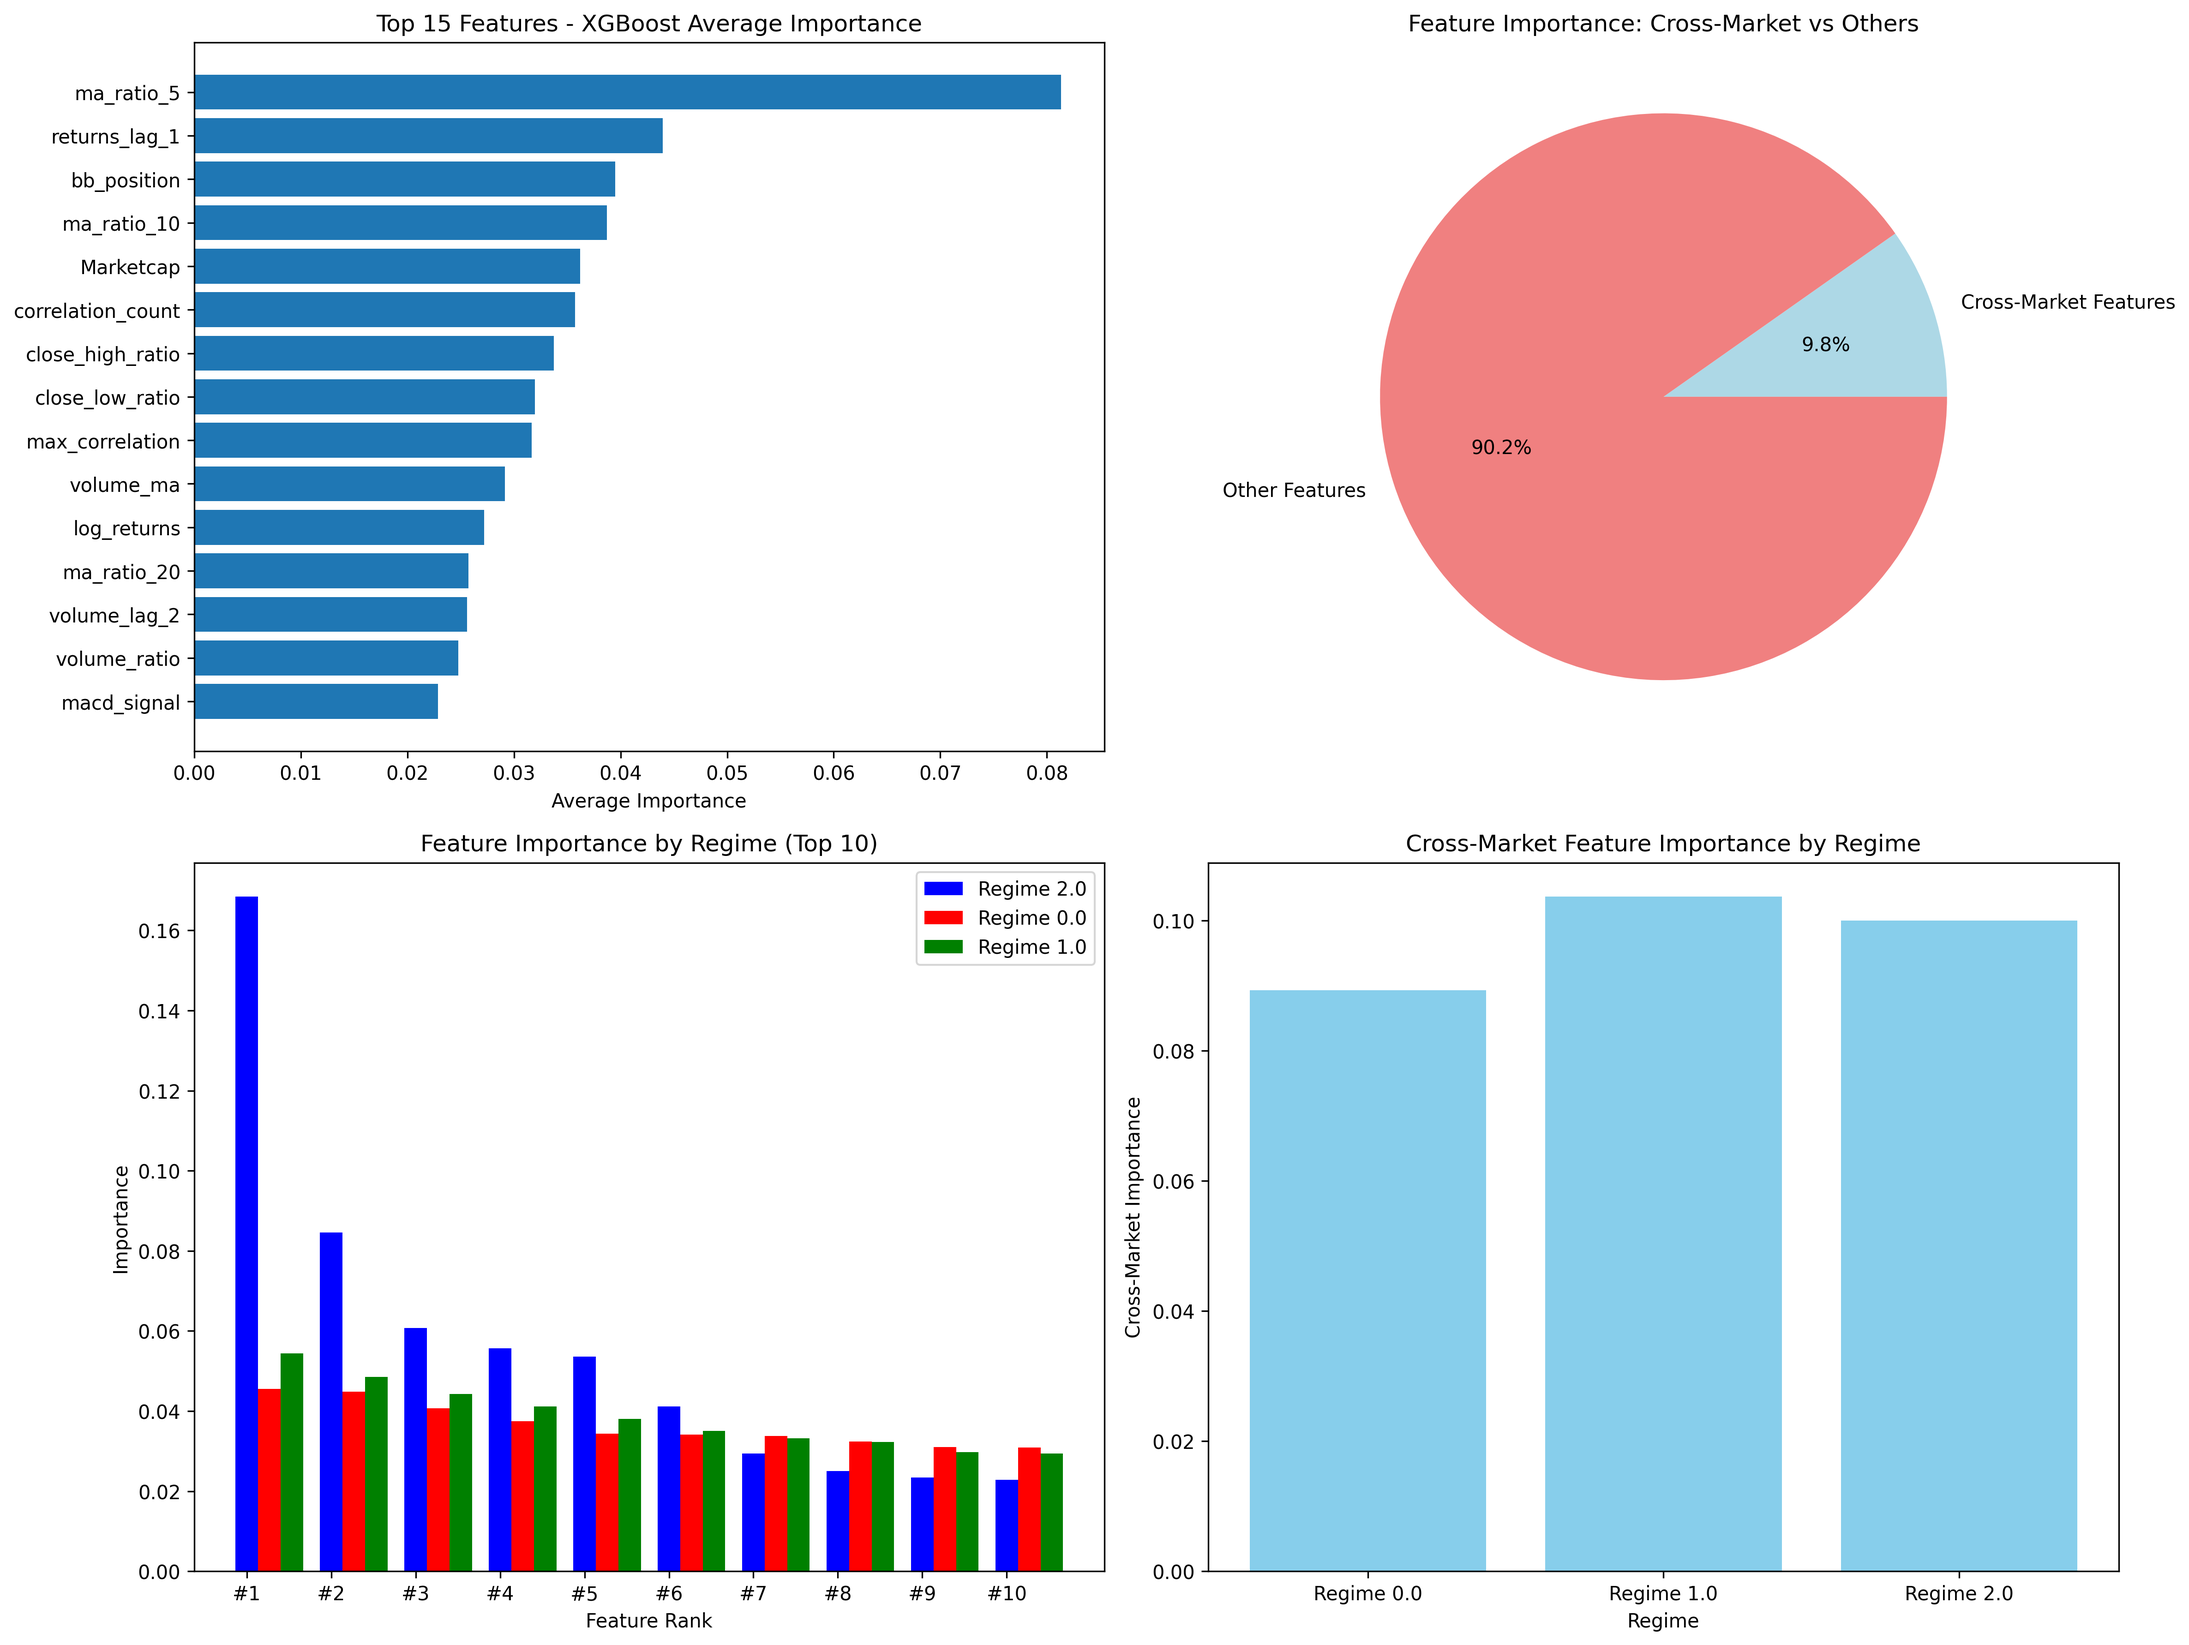
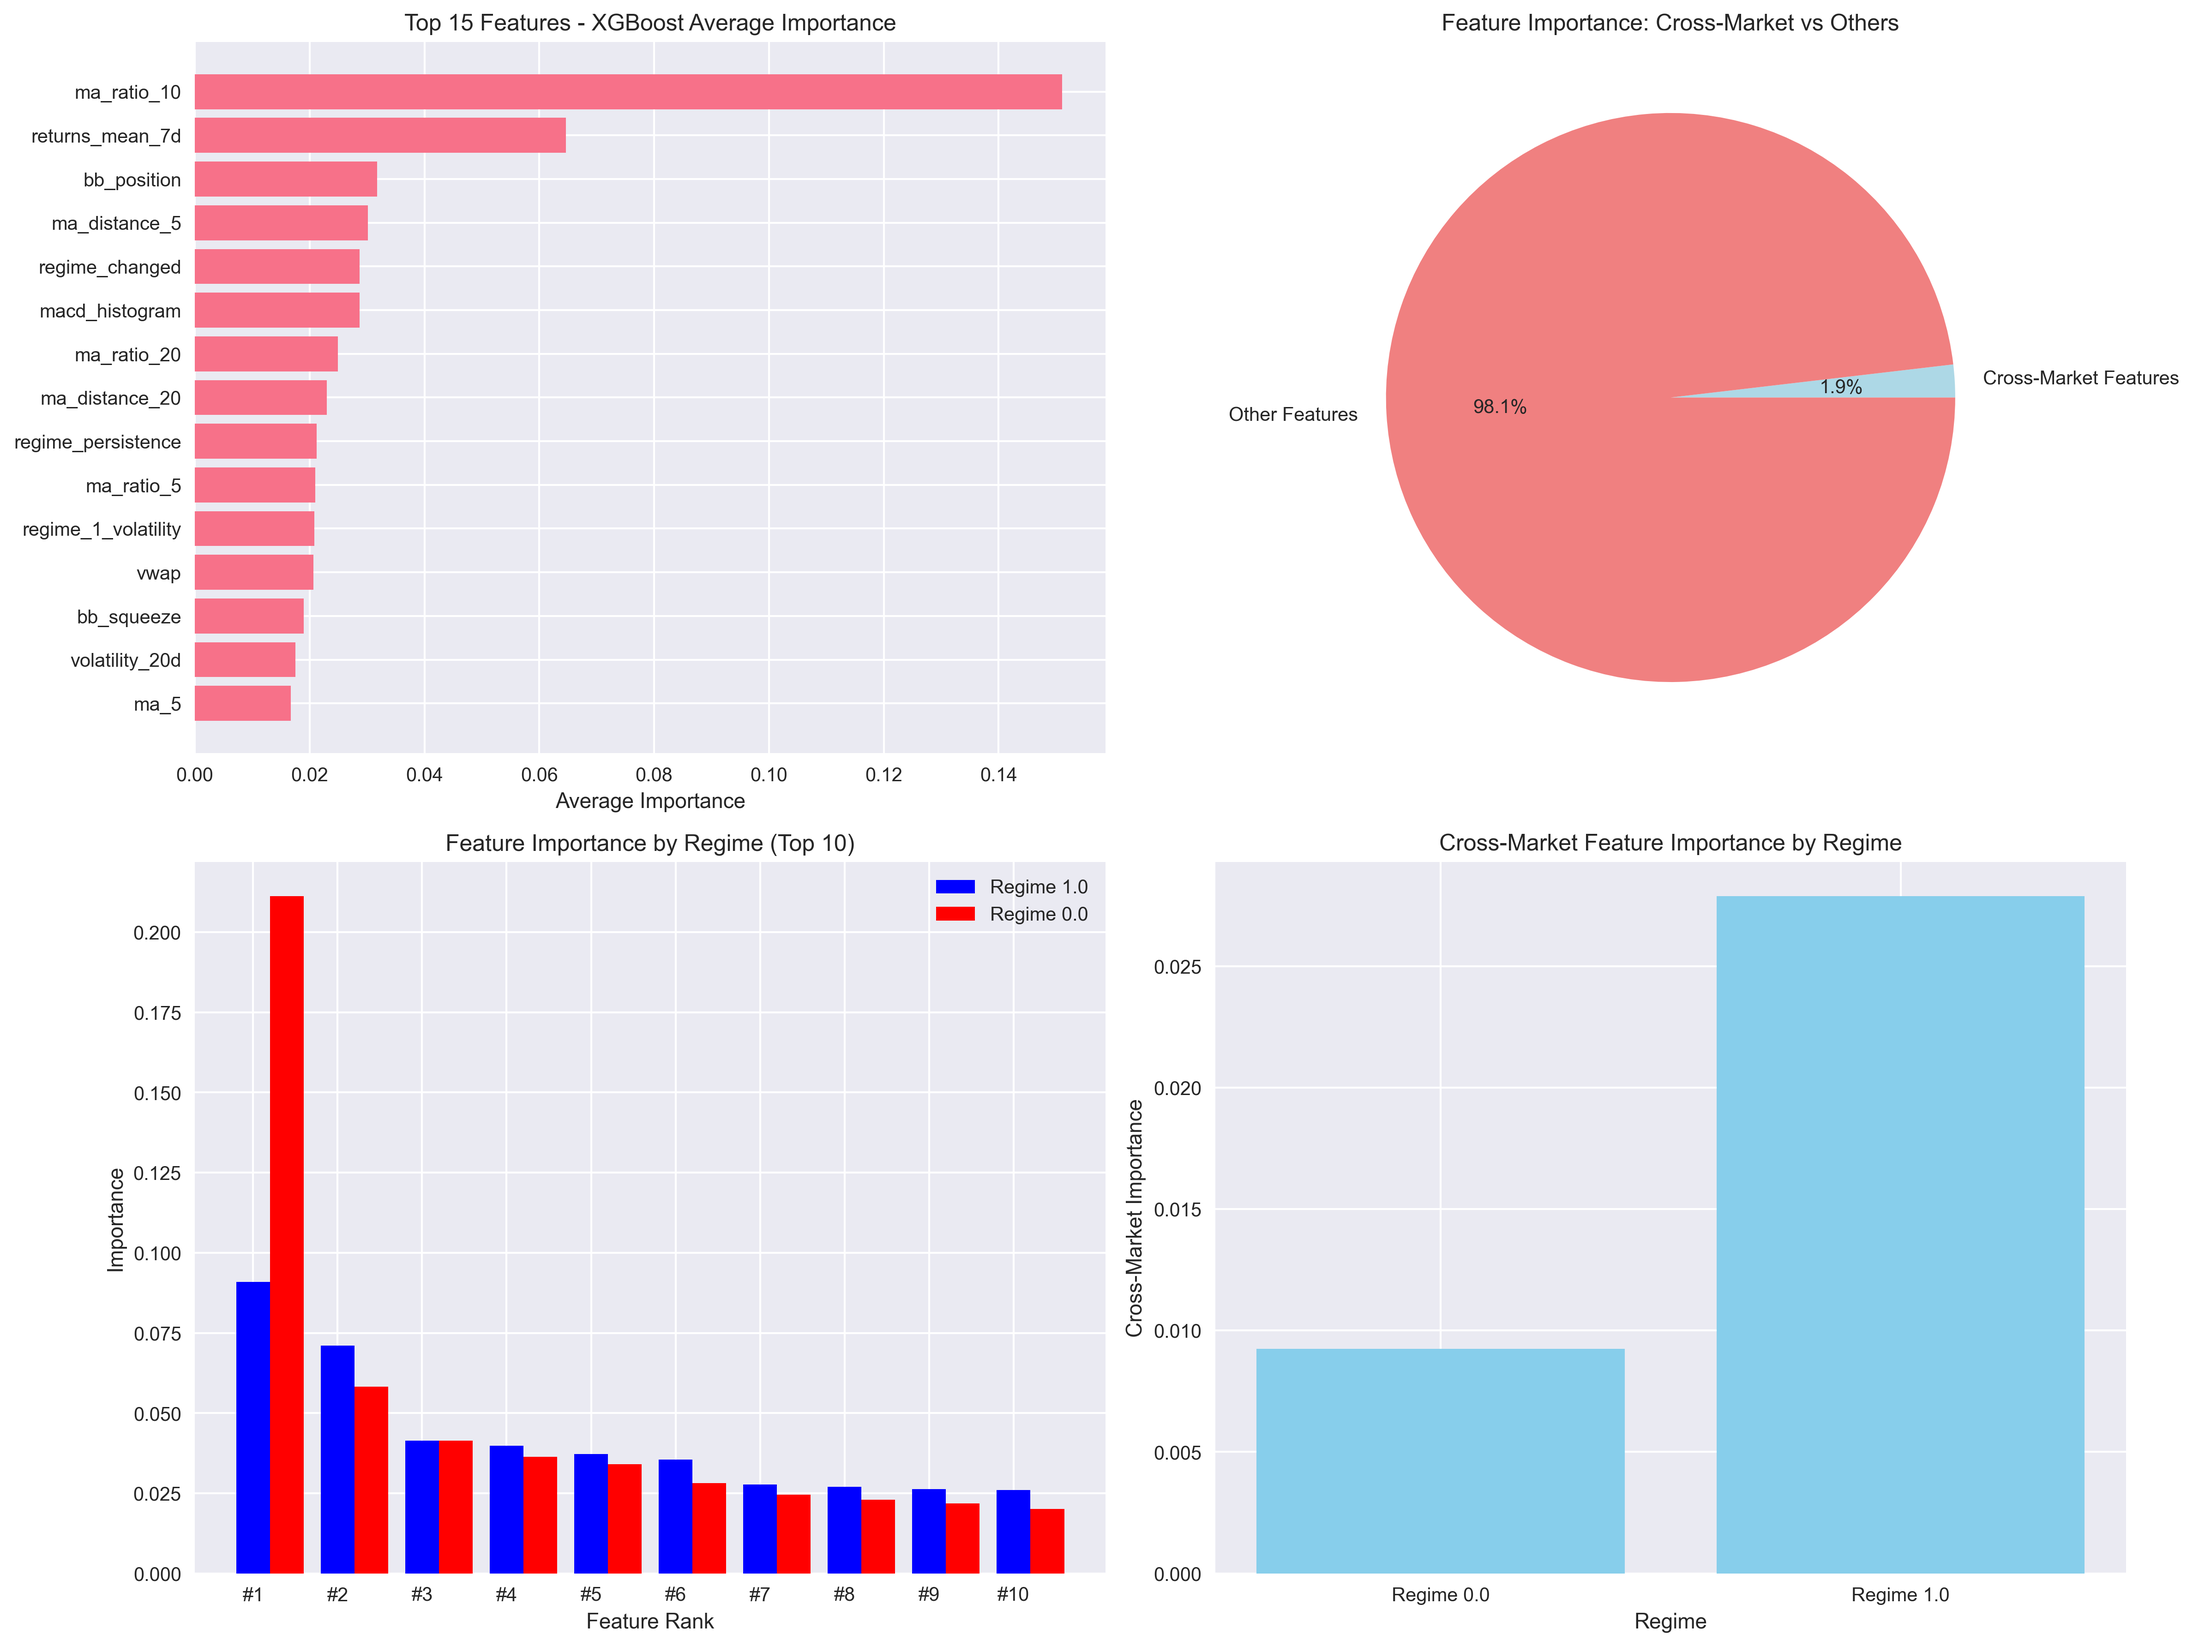
Refactor logging messages in data collection and feature engineering modules to improve clarity by removing checkmarks from log outputs. This change enhances the readability of log messages throughout the application.

diff --git a/feature_engineer.py b/feature_engineer.py
@@ -88,7 +88,7 @@ class FeatureEngineer:
         
         if technical_data:
             result_df = pd.concat(technical_data, ignore_index=True)
-            logger.info(f"✓ Technical indicators created for {len(result_df['Symbol'].unique())} symbols")
+            logger.info(f" Technical indicators created for {len(result_df['Symbol'].unique())} symbols")
             return result_df
         else:
             logger.error("No technical indicators created")
@@ -117,7 +117,7 @@ class FeatureEngineer:
         # Merge with original data
         df_with_cross = df.merge(market_pivot, on='date', how='left')
         
-        logger.info(f"✓ Cross-market features created. Shape: {df_with_cross.shape}")
+        logger.info(f" Cross-market features created. Shape: {df_with_cross.shape}")
         return df_with_cross
     
     def create_rolling_correlations(self, df, window=20):
@@ -155,7 +155,7 @@ class FeatureEngineer:
         if correlation_features:
             corr_df = pd.DataFrame(correlation_features)
             df_with_corr = df.merge(corr_df, on='date', how='left')
-            logger.info(f"✓ Rolling correlations created: {len(corr_df.columns)-1} features")
+            logger.info(f" Rolling correlations created: {len(corr_df.columns)-1} features")
             return df_with_corr
         else:
             logger.warning("No correlation features created")
@@ -194,7 +194,7 @@ class FeatureEngineer:
         
         if momentum_data:
             result_df = pd.concat(momentum_data, ignore_index=True)
-            logger.info(f"✓ Momentum features created")
+            logger.info(f" Momentum features created")
             return result_df
         else:
             return df
@@ -229,7 +229,7 @@ class FeatureEngineer:
         
         if microstructure_data:
             result_df = pd.concat(microstructure_data, ignore_index=True)
-            logger.info(f"✓ Market microstructure features created")
+            logger.info(f" Market microstructure features created")
             return result_df
         else:
             return df
@@ -263,7 +263,7 @@ class FeatureEngineer:
                 # Replace normalized data
                 df_normalized.loc[symbol_mask, feature_columns] = normalized_data
         
-        logger.info(f"✓ Normalized {len(feature_columns)} features")
+        logger.info(f" Normalized {len(feature_columns)} features")
         return df_normalized
     
     def create_target_variables(self, df, horizons=[1, 5, 10]):
@@ -291,7 +291,7 @@ class FeatureEngineer:
         
         if target_data:
             result_df = pd.concat(target_data, ignore_index=True)
-            logger.info(f"✓ Target variables created")
+            logger.info(f" Target variables created")
             return result_df
         else:
             return df
@@ -324,8 +324,8 @@ class FeatureEngineer:
         # Step 7: Clean final dataset
         final_df = df_with_targets.dropna(thresh=len(df_with_targets.columns) * 0.5)  # Remove rows with >50% missing values
         
-        logger.info(f"✓ Feature engineering complete. Final shape: {final_df.shape}")
-        logger.info(f"✓ Features created: {len(final_df.columns)} total columns")
+        logger.info(f" Feature engineering complete. Final shape: {final_df.shape}")
+        logger.info(f" Features created: {len(final_df.columns)} total columns")
         
         return final_df
 

diff --git a/data_collector.py b/data_collector.py
@@ -70,7 +70,7 @@ class FinancialDataCollector:
             columns_to_keep = ['date', 'open', 'high', 'low', 'close', 'volume', 'Symbol', 'Market_Type']
             data = data[columns_to_keep]
             
-            logger.info(f"✓ Downloaded {symbol}: {len(data)} records")
+            logger.info(f" Downloaded {symbol}: {len(data)} records")
             return data
             
         except Exception as e:
@@ -121,7 +121,7 @@ class FinancialDataCollector:
             
             if standardized_data:
                 combined_data = pd.concat(standardized_data, ignore_index=True)
-                logger.info(f"✓ {market_type} data collection complete: {len(combined_data)} total records")
+                logger.info(f" {market_type} data collection complete: {len(combined_data)} total records")
                 return combined_data
             else:
                 logger.warning(f"No valid data collected for {market_type}")
@@ -170,9 +170,9 @@ class FinancialDataCollector:
                 logger.error("No datasets could be standardized for concatenation")
                 return pd.DataFrame()
             
-            logger.info(f"✓ All markets data collected: {len(combined_data)} total records")
-            logger.info(f"✓ Date range: {combined_data['date'].min()} to {combined_data['date'].max()}")
-            logger.info(f"✓ Market distribution: {combined_data['Market_Type'].value_counts().to_dict()}")
+            logger.info(f" All markets data collected: {len(combined_data)} total records")
+            logger.info(f" Date range: {combined_data['date'].min()} to {combined_data['date'].max()}")
+            logger.info(f" Market distribution: {combined_data['Market_Type'].value_counts().to_dict()}")
             
             return combined_data
         else:
@@ -230,7 +230,7 @@ class FinancialDataCollector:
                     Key=key,
                     Body=csv_buffer
                 )
-                logger.info(f"✓ Data saved to s3://{self.s3_bucket}/{key}")
+                logger.info(f" Data saved to s3://{self.s3_bucket}/{key}")
                 return True
             except Exception as e:
                 logger.error(f"Error saving to S3: {str(e)}")
@@ -242,7 +242,7 @@ class FinancialDataCollector:
         try:
             filepath = f"{DATA_DIR}{filename}"
             data.to_csv(filepath, index=False)
-            logger.info(f"✓ Data saved to {filepath}")
+            logger.info(f" Data saved to {filepath}")
             return True
         except Exception as e:
             logger.error(f"Error saving locally: {str(e)}")

diff --git a/main_pipeline.py b/main_pipeline.py
@@ -85,7 +85,7 @@ class TimeSeriesForecastingPipeline:
             'markets': raw_data['Market_Type'].value_counts().to_dict()
         }
         
-        logger.info(f"✓ Data collection completed: {len(raw_data):,} records")
+        logger.info(f" Data collection completed: {len(raw_data):,} records")
         return raw_data
     
     def run_feature_engineering(self, raw_data):
@@ -113,7 +113,7 @@ class TimeSeriesForecastingPipeline:
             'total_features': len(enhanced_data.columns)
         }
         
-        logger.info(f"✓ Feature engineering completed: {len(enhanced_data.columns)} features")
+        logger.info(f" Feature engineering completed: {len(enhanced_data.columns)} features")
         return enhanced_data
     
     def run_regime_detection(self, enhanced_data):
@@ -143,7 +143,7 @@ class TimeSeriesForecastingPipeline:
                 'regime_distribution': regime_dist
             }
         
-        logger.info("✓ Regime detection completed")
+        logger.info(" Regime detection completed")
         return data_with_regimes
     
     def run_model_training(self, final_data):
@@ -183,7 +183,7 @@ class TimeSeriesForecastingPipeline:
             if xgb_model.feature_importance is not None:
                 xgb_model.feature_importance.to_csv(f"{RESULTS_DIR}feature_importance.csv", index=False)
             
-            logger.info("✓ Model training completed successfully")
+            logger.info(" Model training completed successfully")
             return xgb_model, xgb_results
             
         except Exception as e:

diff --git a/financial_data_demo.py b/financial_data_demo.py
@@ -35,7 +35,7 @@ def quick_demo():
                 data['Symbol'] = symbol
                 data['Market_Type'] = 'Crypto' if 'USD' in symbol else ('ETF' if symbol == 'SPY' else 'Stock')
                 all_data.append(data)
-                print(f"  ✓ Downloaded {symbol}: {len(data)} records")
+                print(f"   Downloaded {symbol}: {len(data)} records")
         except Exception as e:
             print(f"  ✗ Failed to download {symbol}: {e}")
     
